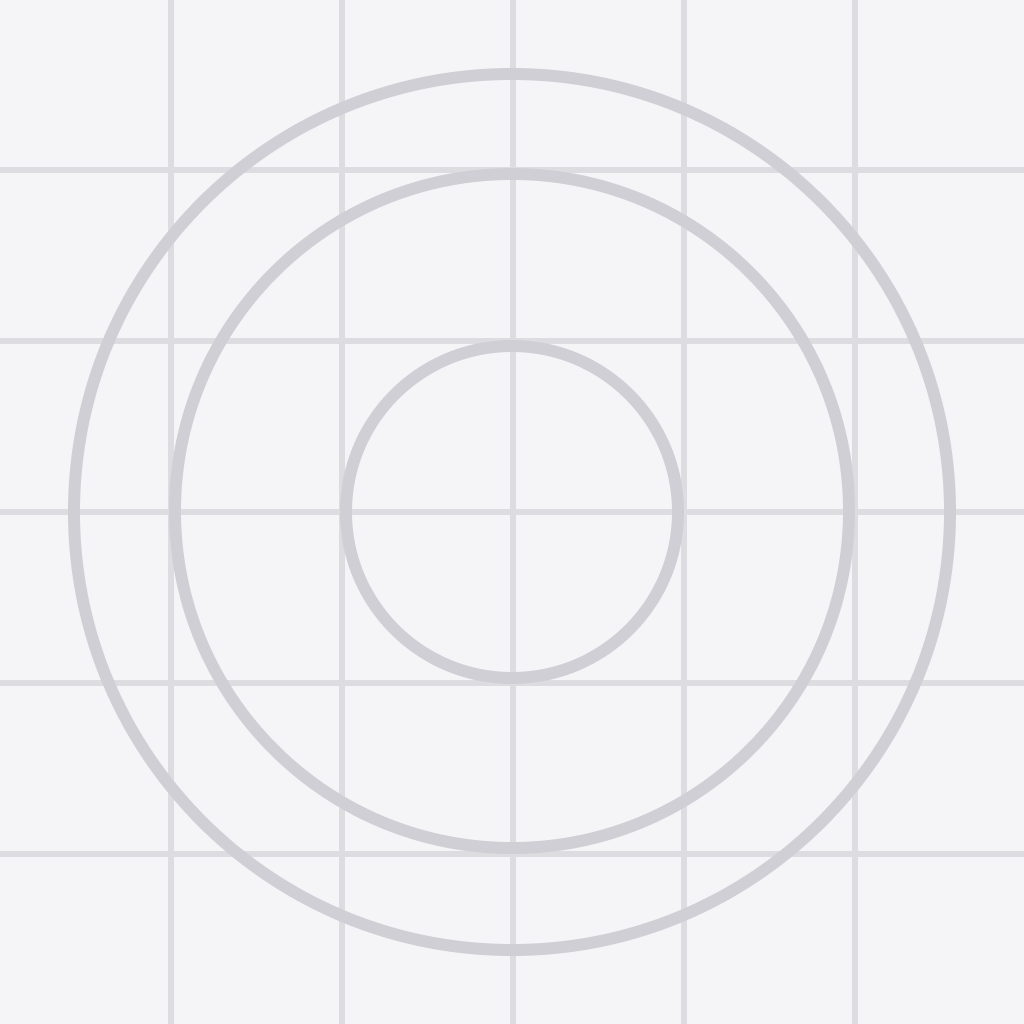
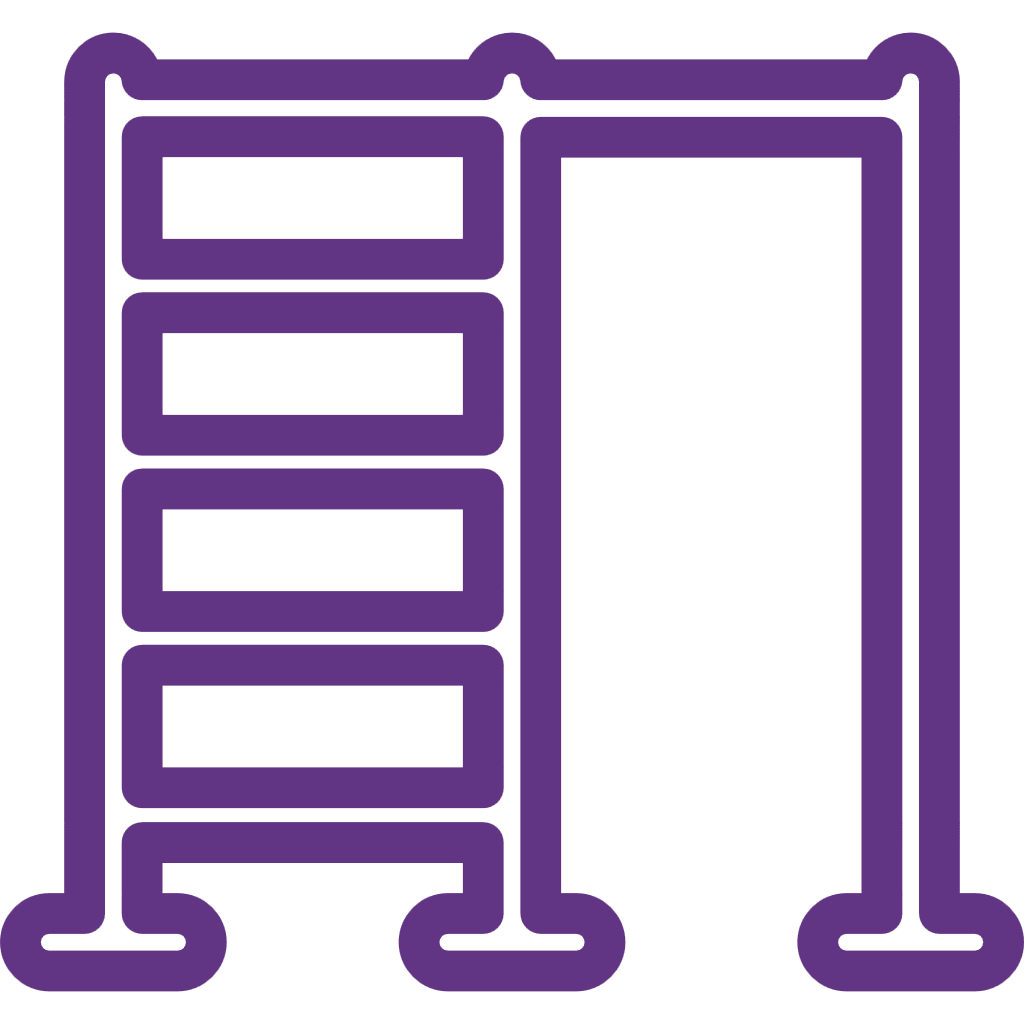
Set dynamic values for config

diff --git a/apps/frontend/mobile/app.config.ts b/apps/frontend/mobile/app.config.ts
@@ -1,28 +1,51 @@
 import { ExpoConfig, ConfigContext } from 'expo/config';
 
-export default ({ config }: ConfigContext): ExpoConfig => {
-  const profile = process.env.APP_VARIANT;
-  if (profile === 'preview') {
-    return {
-      ...config,
-      name: 'cwt_mobile-preview',
-      slug: 'cwt-mobile',
-      icon: './assets/icon-preview.png',
-      android: {
-        ...config.android,
-        package: 'com.fcamero.cwtmobile_preview',
-      },
-    };
+const IS_DEV = process.env.APP_VARIANT === 'development';
+const IS_PREVIEW = process.env.APP_VARIANT === 'preview';
+
+const getUniqueIdentifier = () => {
+  if (IS_DEV) {
+    return 'com.fcamero.cwtmobile_development';
   }
-  // Default to development
-  return {
-    ...config,
-    name: 'cwt_mobile-dev',
-    slug: 'cwt-mobile',
-    icon: './assets/icon-development.png',
-    android: {
-      ...config.android,
-      package: 'com.fcamero.cwtmobile_development',
-    },
-  };
+
+  if (IS_PREVIEW) {
+    return 'com.fcamero.cwtmobile_preview';
+  }
+
+  return 'com.yourname.stickersmash';
 };
+
+const getAppName = () => {
+  if (IS_DEV) {
+    return 'CWT (Dev)';
+  }
+
+  if (IS_PREVIEW) {
+    return 'CWT (Preview)';
+  }
+
+  return 'CWT';
+};
+
+const getIcon = () => {
+  if (IS_DEV) {
+    return './assets/icon-development.png';
+  }
+
+  if (IS_PREVIEW) {
+    return './assets/icon-preview.png';
+  }
+
+  return 'CWT';
+};
+
+export default ({ config }: ConfigContext): ExpoConfig => ({
+  ...config,
+  name: getAppName(),
+  slug: config.slug ?? 'cwt-mobile',
+  icon: getIcon(),
+  android: {
+    ...config.android,
+    package: getUniqueIdentifier(),
+  },
+});